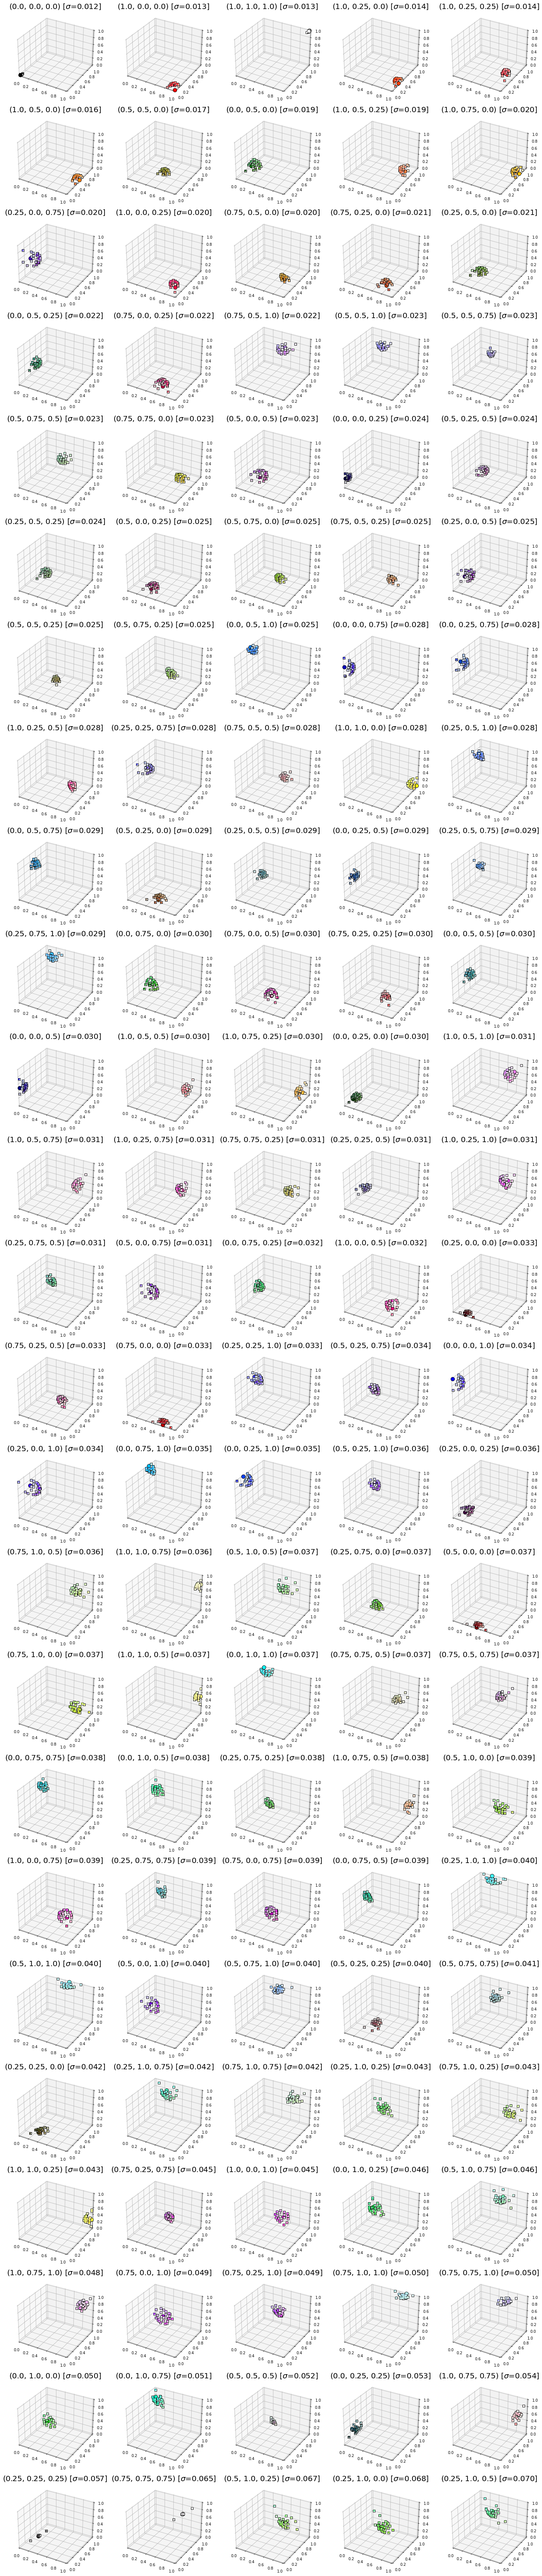
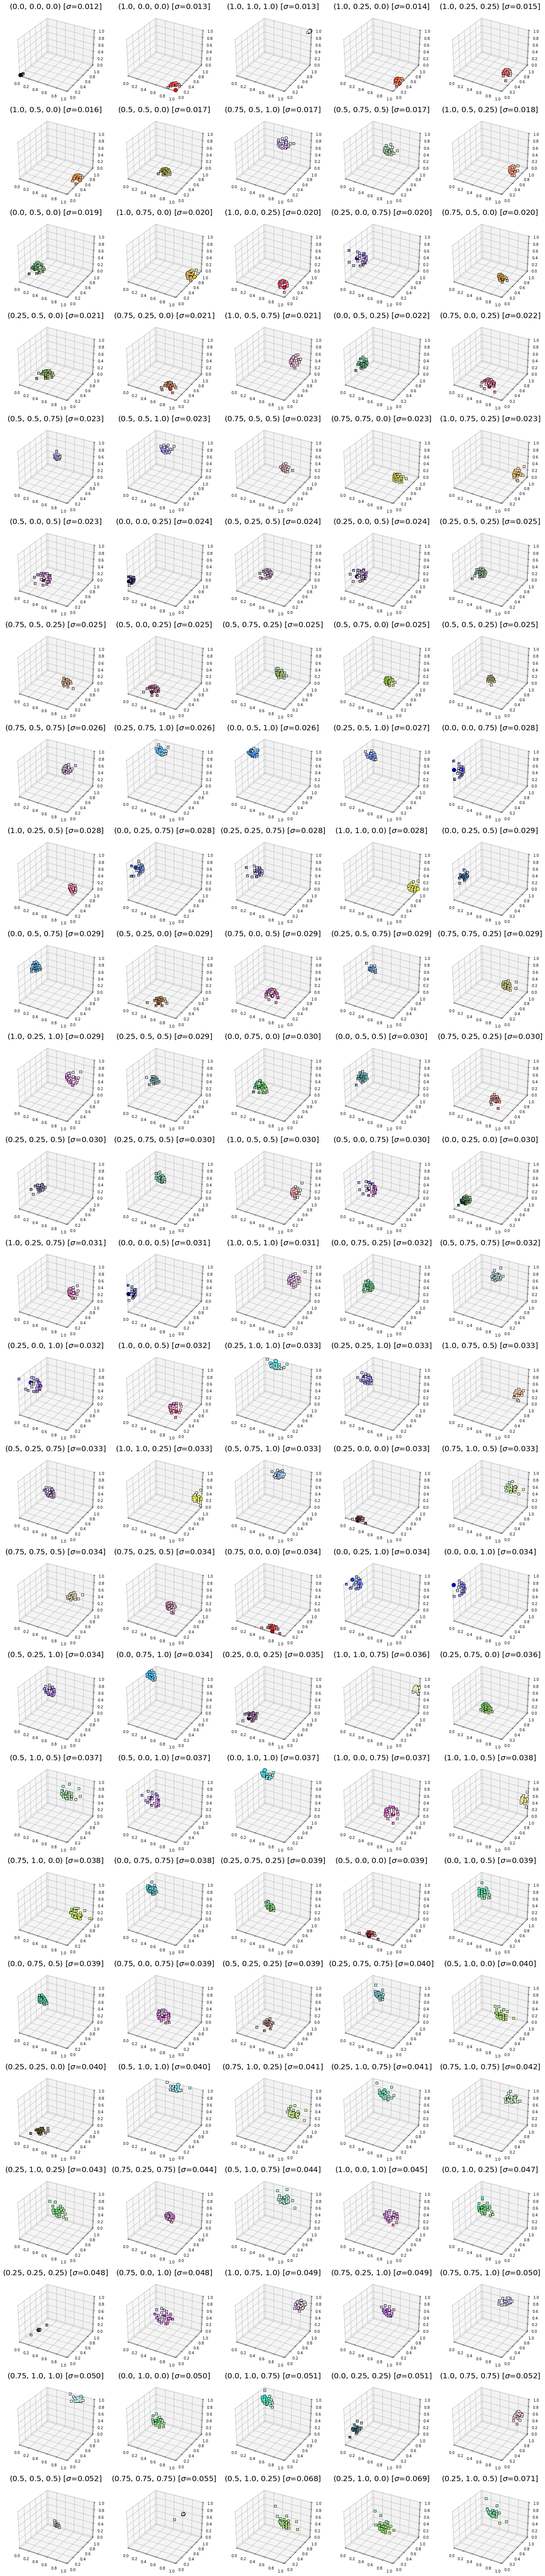
deepucs

diff --git a/_projects/DeepPursuitOfPerceptuallyUniformColourSpace.md b/_projects/DeepPursuitOfPerceptuallyUniformColourSpace.md
@@ -495,7 +495,7 @@ the image encoder of CLIP). The directory name `bg128_i0` means the linear class
 
 ### Raw sensitivity thresholds
 
-In the figure below, we have visualised the sensitivity threshold for **125 test points** summing to a total of **3274 comparisons**. The inserts are sorted following the standard deviation in sensitivity thresholds for the test colours. In each insert, the square marker indicates the test colour whose RGB coordinates are also written in the title.
+In the figure below, we have visualised the sensitivity threshold for **125 test points** summing to a total of **3152 comparisons**. The inserts are sorted following the standard deviation in sensitivity thresholds for the test colours. In each insert, the square marker indicates the test colour whose RGB coordinates are also written in the title.
 All circles correspond to the sensitivity threshold in different directions.
 
 We can observe:
@@ -520,7 +520,7 @@ We can compute the uniformity metric (standard deviation among distances) for di
 spaces and colour difference metrics. Overall, we can see the values of $$\sigma$$ are small across
 colour spaces:
 * Smaller standard deviation in YCC and DKL colour space in comparison to RGB suggests these colour spaces are perceptually more uniform for this layer.
-* $$\Delta E$$ of 2.58 is slightly above JND, suggesting the network's colour sensitivity is not far away from humans.
+* $$\Delta E$$ of 2.56 is slightly above JND, suggesting the network's colour sensitivity is not far away from humans.
 
 
 
